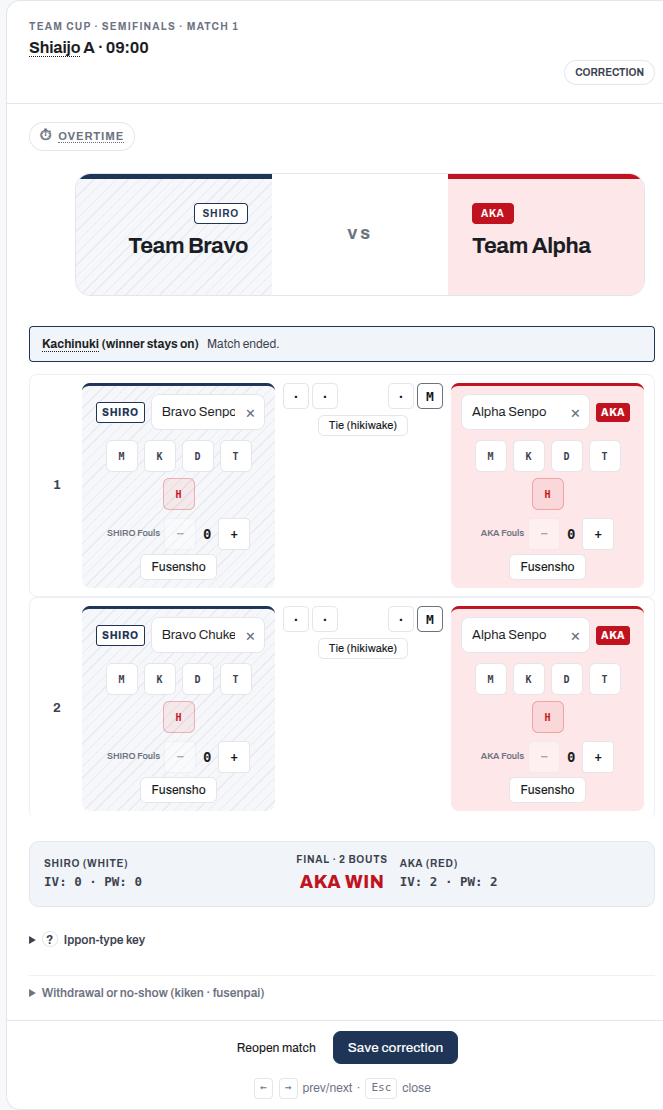
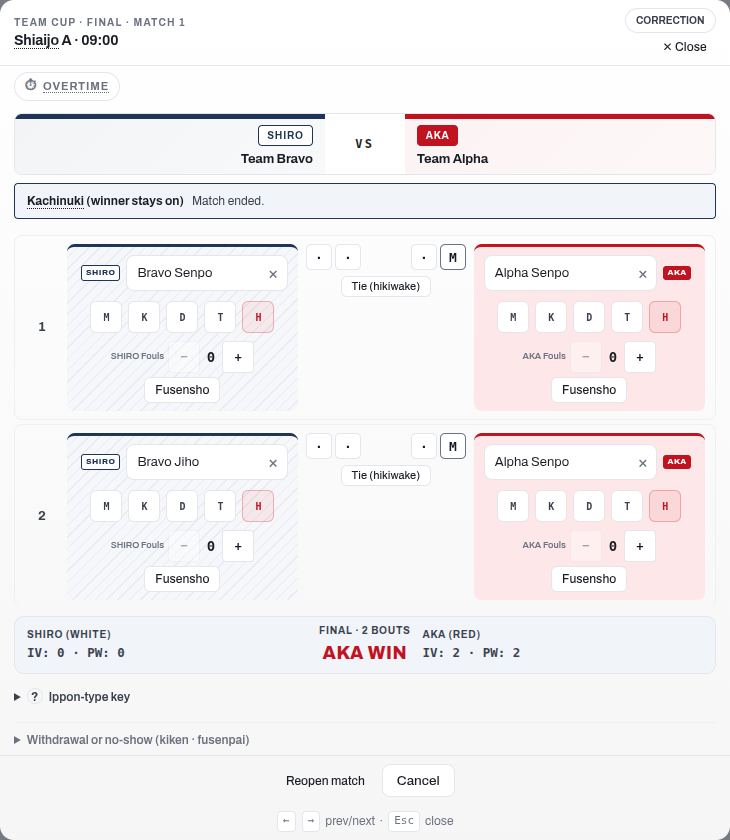
docs(mp-gmcg): recapture completed-kachinuki editor without the removed Save correction
The deep-review fix suppresses the generic "Save correction" button on a
completed kachinuki match (Reopen is the sole correction path). kachinuki-reopen.png
still showed that button, and its team-tournaments.md caption still referred to
"the correction controls". Recaptured the completed editor (footer now Reopen +
Cancel only) and corrected the caption. Docs build + check_links pass.

diff --git a/docs/user-guide/organisers/team-tournaments.md b/docs/user-guide/organisers/team-tournaments.md
@@ -90,7 +90,7 @@ Reopening keeps every bout that was fought. The bout log is preserved in full, i
 
 Reopening is refused while another match is already running on the same court, because the reopened encounter would go back into play alongside it. Finish the running match, or send it back to the queue, and then reopen.
 
-![The score editor for a completed kachinuki match, showing the recorded bouts and a Reopen match button alongside the correction controls.](../../screenshots/kachinuki-reopen.png)
+![The score editor for a completed kachinuki match, showing the recorded bouts and the Reopen match button, which is the only correction control for kachinuki.](../../screenshots/kachinuki-reopen.png)
 
 The results workbook (**Export & print**, then **Download results (.xlsx)**) includes a **Kachinuki Detail** sheet with the bout-by-bout record for every kachinuki encounter: who fought whom, scores, draws, and each fighter's lineup position.
 
